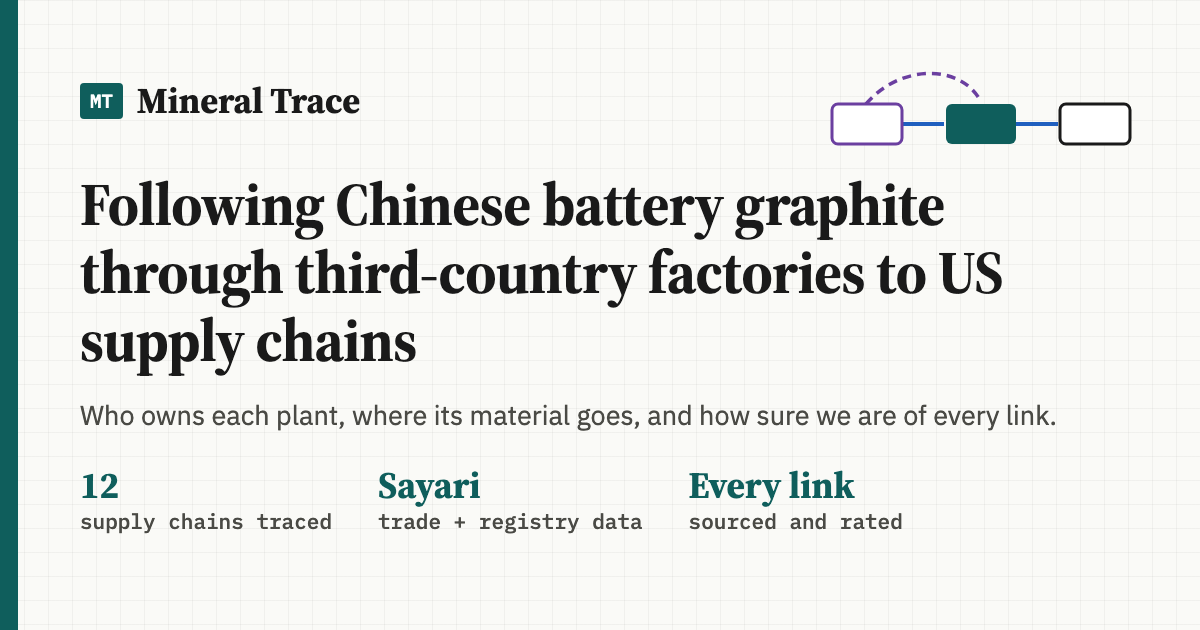
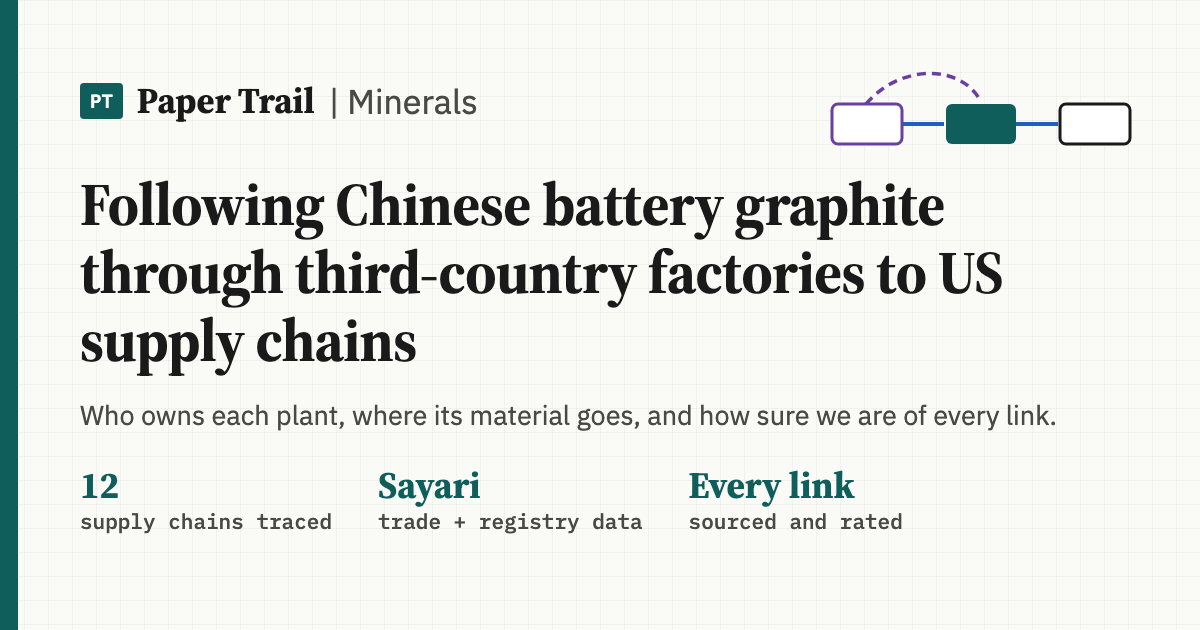
Rename the site Paper Trail | Minerals, with Paper Trail in bold

Changed region(s): [[0.0617, 0.1206, 0.4008, 0.181]]

diff --git a/about.html b/about.html
@@ -3,13 +3,13 @@
 <head>
   <meta charset="utf-8">
   <meta name="viewport" content="width=device-width, initial-scale=1">
-  <title>Mineral Trace: About this tool</title>
-  <meta name="description" content="Purpose, audience, how to read the site, data sources, open-source credits, limitations and changelog for Mineral Trace.">
+  <title>Paper Trail | Minerals: About this tool</title>
+  <meta name="description" content="Purpose, audience, how to read the site, data sources, open-source credits, limitations and changelog for Paper Trail | Minerals.">
   <link rel="icon" href="assets/img/favicon.svg" type="image/svg+xml">
   <meta property="og:type" content="website">
-  <meta property="og:site_name" content="Mineral Trace">
-  <meta property="og:title" content="Mineral Trace: About this tool">
-  <meta property="og:description" content="Purpose, audience, how to read the site, data sources, open-source credits, limitations and changelog for Mineral Trace.">
+  <meta property="og:site_name" content="Paper Trail | Minerals">
+  <meta property="og:title" content="Paper Trail | Minerals: About this tool">
+  <meta property="og:description" content="Purpose, audience, how to read the site, data sources, open-source credits, limitations and changelog for Paper Trail | Minerals.">
   <meta property="og:url" content="https://indiaclarke03-ops.github.io/BatteryMineralRerouting/about.html">
   <meta property="og:image" content="https://indiaclarke03-ops.github.io/BatteryMineralRerouting/assets/img/social-card.png">
   <meta property="og:image:width" content="1200">
@@ -31,8 +31,8 @@
     <div class="wrap" style="max-width:56rem">
       <div class="page-head">
         <span class="eyebrow">About this tool</span>
-        <h1>About Mineral Trace</h1>
-        <p class="lede">Mineral Trace tests whether trade and corporate-registry data can detect Chinese battery materials being routed through factories in other countries before they reach US battery supply chains. It traces a dozen cases, from graphite anode plants to battery-cell and nickel plants. It uses the Sayari knowledge graph through Sayari's MCP server.</p>
+        <h1>About Paper Trail <span class="brand-sub">| Minerals</span></h1>
+        <p class="lede"><strong>Paper Trail</strong> | Minerals tests whether trade and corporate-registry data can detect Chinese battery materials being routed through factories in other countries before they reach US battery supply chains. It traces a dozen cases, from graphite anode plants to battery-cell and nickel plants. It uses the Sayari knowledge graph through Sayari's MCP server.</p>
         <ul class="toc">
           <li><a href="#purpose">Purpose</a> ·</li><li><a href="#read">How to read it</a> ·</li><li><a href="#confidence">How we rate confidence</a> ·</li><li><a href="#flags">Risk flags</a> ·</li><li><a href="#naming">Naming companies</a> ·</li>
           <li><a href="#sources">Data sources</a> ·</li><li><a href="#credits">Credits</a> ·</li><li><a href="#limits">Limitations and ethics</a> ·</li>
@@ -49,7 +49,7 @@
           <li><strong>Practical checks for buyers</strong>: who supplies a given US company (<a href="buyers.html">Check a Buyer</a>), plus ownership screening, supplier questions and a watch list (<a href="diligence.html">Due Diligence</a>).</li>
           <li><strong>A reusable screening playbook</strong>: a Sayari MCP call sequence and red-flag rubric that can be rerun on any battery supplier (<a href="https://github.com/indiaclarke03-ops/BatteryMineralRerouting/blob/main/investigation/playbook.md">playbook</a>).</li>
           <li><strong>An honest scorecard of the tool</strong>, showing where Sayari worked, partly worked or failed (<a href="method.html#scorecard-h">scorecard</a>).</li>
-          <li><strong>Declared vs. observed</strong>: a Passport vs. Mineral Trace card that compares battery-passport fields with what trade data shows (<a href="cases.html">Case Files</a>).</li>
+          <li><strong>Declared vs. observed</strong>: a Passport vs. Paper Trail card that compares battery-passport fields with what trade data shows (<a href="cases.html">Case Files</a>).</li>
         </ol>
       </section>
 
@@ -150,7 +150,7 @@
       <section id="changelog" aria-labelledby="changelog-h">
         <h2 id="changelog-h">Changelog</h2>
         <ul>
-          <li><strong>Iteration 1.5, 3 Nov 2026.</strong> Renamed Mineral Trace. The Trace now plays each supply chain as an animated route on a larger map, with a drop-down for each case beside it. On Explore, details sit beside the graph, each case opens fully in view, arrows show direction, clicking traces a whole chain, and risk flags highlight companies without removing the rest of the chain.</li>
+          <li><strong>Iteration 1.5, 3 Nov 2026.</strong> Renamed Paper Trail | Minerals. The Trace now plays each supply chain as an animated route on a larger map, with a drop-down for each case beside it. On Explore, details sit beside the graph, each case opens fully in view, arrows show direction, clicking traces a whole chain, and risk flags highlight companies without removing the rest of the chain.</li>
           <li><strong>Iteration 1.4, 18 Oct 2026.</strong> Four new cases: Ford and BTR, CATL/Ampace/Linergy (now TDK-owned), CATL Debrecen as an EU comparison, and Huayou nickel. Ownership percentages filled in from company filings, with the remaining unknowns and the documents that would settle them. Wider supplier scans for Ford, Panasonic and LG Energy Solution. "Last checked" dates and a monthly automated re-check. Executive summary, guided tour, link previews and an accessibility pass.</li>
           <li><strong>Iteration 1.3, 18 Oct 2026.</strong> Every headline claim re-checked against Sayari, with corrections: Case 1 now counts about 55 shipment rows (some loaded in Singapore); Case 2 adds BTR Morocco's first graphite, from BTR Indonesia (Aug 2026); Case 7's "Jamaica" rows are explained as a shipping hub. New pages: Check a Buyer and Due Diligence. New home page map and findings list. The Explore network is laid out in four columns (owners, suppliers, plant, buyers). Policy timeline updated.</li>
           <li><strong>Iteration 1.2, 14 Oct 2026 (before class).</strong> Three more cases (EVE Energy Malaysia, Gotion US, Syrah Vidalia), making eight. A clearer network graph: duplicate records merged, colour by role, hover focus, zoom controls, a details drawer. Each case now opens with its question, answer and why it matters. Relevant individuals are named with their roles.</li>

diff --git a/assets/js/ui.js b/assets/js/ui.js
@@ -1,4 +1,4 @@
-/* Mineral Trace: shared header, footer and legend. */
+/* Paper Trail | Minerals: shared header, footer and legend. */
 (function (PT) {
   const PAGES = [
     ["index.html", "The Trace"],
@@ -23,7 +23,7 @@
       header.className = "site-header";
       header.innerHTML = `
         <div class="wrap">
-          <a class="brand" href="index.html"><span class="brand-mark">MT</span>Mineral Trace</a>
+          <a class="brand" href="index.html"><span class="brand-mark">PT</span><strong>Paper Trail</strong><span class="brand-sub">| Minerals</span></a>
           <button class="nav-toggle" aria-expanded="false" aria-controls="site-nav">Menu</button>
           <nav class="nav" id="site-nav" aria-label="Main">
             ${PAGES.map(([href, label]) => `<a href="${href}"${href === here ? ' aria-current="page"' : ""}>${label}</a>`).join("")}
@@ -41,7 +41,7 @@
       footer.className = "site-footer";
       footer.innerHTML = `
         <div class="wrap">
-          <div><strong>Mineral Trace</strong>: tracing battery-mineral rerouting with Sayari MCP. Data as of 14 Oct 2026, re-checked 18 Oct 2026.</div>
+          <div><strong>Paper Trail</strong> | Minerals: tracing battery-mineral rerouting with Sayari MCP. Data as of 14 Oct 2026, re-checked 18 Oct 2026.</div>
           <div>Not an accusation tool: patterns here warrant due diligence, not conclusions. See <a href="about.html#limits">limitations</a>.</div>
           <div>GLOB1-GC 2620, NYU Center for Global Affairs · <a href="${REPO}">Source on GitHub</a> · MIT licence · Companion to <a href="https://indiaclarke03-ops.github.io/EthicalBatterySourcing/">Battery Passport Audit</a></div>
         </div>`;

diff --git a/cases.html b/cases.html
@@ -3,13 +3,13 @@
 <head>
   <meta charset="utf-8">
   <meta name="viewport" content="width=device-width, initial-scale=1">
-  <title>Mineral Trace: Case Files</title>
-  <meta name="description" content="Case files: BTR's Indonesian anode plant, with a Passport vs. Mineral Trace comparison, red flags and caveats.">
+  <title>Paper Trail | Minerals: Case Files</title>
+  <meta name="description" content="Case files: BTR's Indonesian anode plant, with a Passport vs. Paper Trail comparison, red flags and caveats.">
   <link rel="icon" href="assets/img/favicon.svg" type="image/svg+xml">
   <meta property="og:type" content="website">
-  <meta property="og:site_name" content="Mineral Trace">
-  <meta property="og:title" content="Mineral Trace: Case Files">
-  <meta property="og:description" content="Case files: BTR's Indonesian anode plant, with a Passport vs. Mineral Trace comparison, red flags and caveats.">
+  <meta property="og:site_name" content="Paper Trail | Minerals">
+  <meta property="og:title" content="Paper Trail | Minerals: Case Files">
+  <meta property="og:description" content="Case files: BTR's Indonesian anode plant, with a Passport vs. Paper Trail comparison, red flags and caveats.">
   <meta property="og:url" content="https://indiaclarke03-ops.github.io/BatteryMineralRerouting/cases.html">
   <meta property="og:image" content="https://indiaclarke03-ops.github.io/BatteryMineralRerouting/assets/img/social-card.png">
   <meta property="og:image:width" content="1200">

diff --git a/index.html b/index.html
@@ -3,12 +3,12 @@
 <head>
   <meta charset="utf-8">
   <meta name="viewport" content="width=device-width, initial-scale=1">
-  <title>Mineral Trace: The Trace</title>
+  <title>Paper Trail | Minerals: The Trace</title>
   <meta name="description" content="Following Chinese battery graphite through third-country factories to US supply chains: a dozen cases traced through trade and company-registry data.">
   <link rel="icon" href="assets/img/favicon.svg" type="image/svg+xml">
   <meta property="og:type" content="website">
-  <meta property="og:site_name" content="Mineral Trace">
-  <meta property="og:title" content="Mineral Trace: The Trace">
+  <meta property="og:site_name" content="Paper Trail | Minerals">
+  <meta property="og:title" content="Paper Trail | Minerals: The Trace">
   <meta property="og:description" content="Following Chinese battery graphite through third-country factories to US supply chains: a dozen cases traced through trade and company-registry data.">
   <meta property="og:url" content="https://indiaclarke03-ops.github.io/BatteryMineralRerouting/">
   <meta property="og:image" content="https://indiaclarke03-ops.github.io/BatteryMineralRerouting/assets/img/social-card.png">

diff --git a/diligence.html b/diligence.html
@@ -3,12 +3,12 @@
 <head>
   <meta charset="utf-8">
   <meta name="viewport" content="width=device-width, initial-scale=1">
-  <title>Mineral Trace: Due Diligence</title>
+  <title>Paper Trail | Minerals: Due Diligence</title>
   <meta name="description" content="Ownership screening for each traced plant, supplier due-diligence questions, and a watch list for plants not yet exporting.">
   <link rel="icon" href="assets/img/favicon.svg" type="image/svg+xml">
   <meta property="og:type" content="website">
-  <meta property="og:site_name" content="Mineral Trace">
-  <meta property="og:title" content="Mineral Trace: Due Diligence">
+  <meta property="og:site_name" content="Paper Trail | Minerals">
+  <meta property="og:title" content="Paper Trail | Minerals: Due Diligence">
   <meta property="og:description" content="Ownership screening for each traced plant, supplier due-diligence questions, and a watch list for plants not yet exporting.">
   <meta property="og:url" content="https://indiaclarke03-ops.github.io/BatteryMineralRerouting/diligence.html">
   <meta property="og:image" content="https://indiaclarke03-ops.github.io/BatteryMineralRerouting/assets/img/social-card.png">

diff --git a/explore.html b/explore.html
@@ -3,12 +3,12 @@
 <head>
   <meta charset="utf-8">
   <meta name="viewport" content="width=device-width, initial-scale=1">
-  <title>Mineral Trace: Explore</title>
+  <title>Paper Trail | Minerals: Explore</title>
   <meta name="description" content="Interactive network of the Case 1 trace: shipments, ownership and inferred links, each with its confidence and source call.">
   <link rel="icon" href="assets/img/favicon.svg" type="image/svg+xml">
   <meta property="og:type" content="website">
-  <meta property="og:site_name" content="Mineral Trace">
-  <meta property="og:title" content="Mineral Trace: Explore">
+  <meta property="og:site_name" content="Paper Trail | Minerals">
+  <meta property="og:title" content="Paper Trail | Minerals: Explore">
   <meta property="og:description" content="Interactive network of the Case 1 trace: shipments, ownership and inferred links, each with its confidence and source call.">
   <meta property="og:url" content="https://indiaclarke03-ops.github.io/BatteryMineralRerouting/explore.html">
   <meta property="og:image" content="https://indiaclarke03-ops.github.io/BatteryMineralRerouting/assets/img/social-card.png">

diff --git a/method.html b/method.html
@@ -3,12 +3,12 @@
 <head>
   <meta charset="utf-8">
   <meta name="viewport" content="width=device-width, initial-scale=1">
-  <title>Mineral Trace: Method</title>
+  <title>Paper Trail | Minerals: Method</title>
   <meta name="description" content="Investigation replay of every Sayari MCP call, the red-flag rubric, a Sayari capability scorecard and a searchable call log.">
   <link rel="icon" href="assets/img/favicon.svg" type="image/svg+xml">
   <meta property="og:type" content="website">
-  <meta property="og:site_name" content="Mineral Trace">
-  <meta property="og:title" content="Mineral Trace: Method">
+  <meta property="og:site_name" content="Paper Trail | Minerals">
+  <meta property="og:title" content="Paper Trail | Minerals: Method">
   <meta property="og:description" content="Investigation replay of every Sayari MCP call, the red-flag rubric, a Sayari capability scorecard and a searchable call log.">
   <meta property="og:url" content="https://indiaclarke03-ops.github.io/BatteryMineralRerouting/method.html">
   <meta property="og:image" content="https://indiaclarke03-ops.github.io/BatteryMineralRerouting/assets/img/social-card.png">

diff --git a/buyers.html b/buyers.html
@@ -3,12 +3,12 @@
 <head>
   <meta charset="utf-8">
   <meta name="viewport" content="width=device-width, initial-scale=1">
-  <title>Mineral Trace: Check a Buyer</title>
+  <title>Paper Trail | Minerals: Check a Buyer</title>
   <meta name="description" content="Pick a US battery buyer and see every supplier in the traced supply chains, who owns it, and what it shipped.">
   <link rel="icon" href="assets/img/favicon.svg" type="image/svg+xml">
   <meta property="og:type" content="website">
-  <meta property="og:site_name" content="Mineral Trace">
-  <meta property="og:title" content="Mineral Trace: Check a Buyer">
+  <meta property="og:site_name" content="Paper Trail | Minerals">
+  <meta property="og:title" content="Paper Trail | Minerals: Check a Buyer">
   <meta property="og:description" content="Pick a US battery buyer and see every supplier in the traced supply chains, who owns it, and what it shipped.">
   <meta property="og:url" content="https://indiaclarke03-ops.github.io/BatteryMineralRerouting/buyers.html">
   <meta property="og:image" content="https://indiaclarke03-ops.github.io/BatteryMineralRerouting/assets/img/social-card.png">

diff --git a/assets/js/cases.js b/assets/js/cases.js
@@ -1,10 +1,10 @@
-/* Mineral Trace: Case Files page (all cases). */
+/* Paper Trail | Minerals: Case Files page (all cases). */
 (function (PT) {
   const LABEL = { detected: "Detected", suggested: "Suggested", not_visible: "Not visible", absent: "Checked: absent" };
 
   function passportHTML(rows) {
-    return `<div class="passport" role="table" aria-label="Passport versus Mineral Trace">
-      <div class="passport-head"><strong>Passport vs. Mineral Trace</strong><span>EU Battery Regulation passport fields · illustrative</span></div>
+    return `<div class="passport" role="table" aria-label="Passport versus Paper Trail">
+      <div class="passport-head"><strong>Passport vs. Paper Trail</strong><span>EU Battery Regulation passport fields · illustrative</span></div>
       ${rows.map((r) => `
         <div class="passport-row${r.gap ? " gap" : ""}" role="row">
           <div class="pf" role="rowheader">${PT.esc(r.field)}<small>Passport field no. ${PT.esc(r.guidance_no)}</small></div>

diff --git a/assets/js/diligence.js b/assets/js/diligence.js
@@ -1,4 +1,4 @@
-/* Mineral Trace: Due Diligence page (ownership screening, question generator, watch list). */
+/* Paper Trail | Minerals: Due Diligence page (ownership screening, question generator, watch list). */
 (function (PT) {
   const RES = { detected: "Detected", suggested: "Suggested", not_visible: "Not visible", absent: "Checked: absent" };
 
@@ -83,7 +83,7 @@
     let n = 1;
     s.questions.forEach((q) => lines.push(`${n++}. ${q}`));
     fromFlags.forEach((x) => lines.push(`${n++}. ${x.q} [${RES[x.result]}: ${x.flag}]`));
-    lines.push("", "Source: Mineral Trace, data as of 14 Oct 2026 (re-checked 18 Oct 2026).");
+    lines.push("", "Source: Paper Trail | Minerals, data as of 14 Oct 2026 (re-checked 18 Oct 2026).");
     return lines.join("\n");
   }
 

diff --git a/assets/css/components.css b/assets/css/components.css
@@ -9,6 +9,8 @@
   display: flex; align-items: baseline; gap: var(--s-2);
   font-family: var(--serif); font-weight: 700; font-size: 1.25rem; color: var(--ink); text-decoration: none;
 }
+.brand strong { font-weight: 700; }
+.brand-sub { font-family: var(--sans); font-weight: 400; color: var(--ink-2); }
 .brand-mark {
   font-family: var(--mono); font-size: 0.7rem; font-weight: 500; color: var(--card);
   background: var(--teal); padding: 2px 6px; border-radius: 2px; letter-spacing: 0.08em;

diff --git a/assets/js/tour.js b/assets/js/tour.js
@@ -1,4 +1,4 @@
-/* Mineral Trace: a short guided tour of the site, started from the home page. */
+/* Paper Trail | Minerals: a short guided tour of the site, started from the home page. */
 (function () {
   const STEPS = [
     { sel: "#facts", title: "1 · Why it matters", text: "China makes over 90% of the world's battery anode material, and US tax-credit rules now ask who owns each supplier. These four numbers set the scene." },
